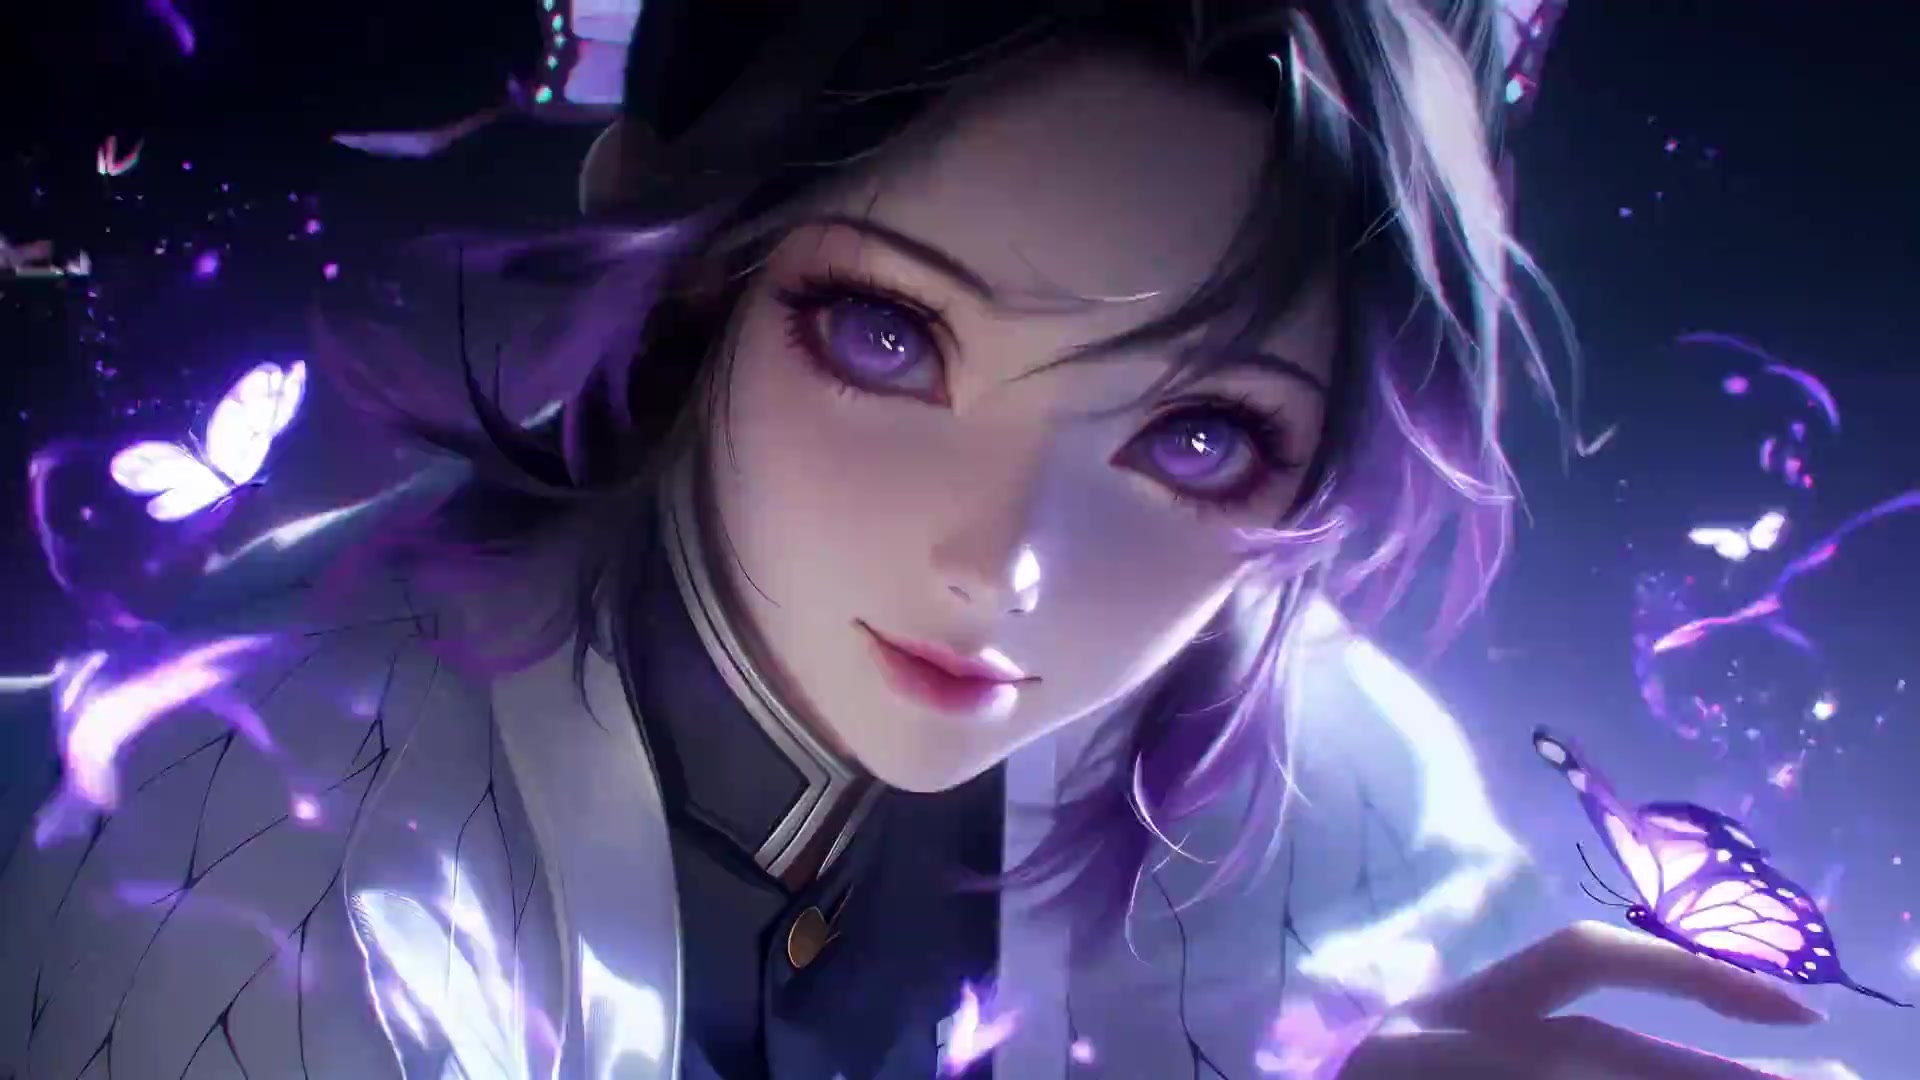
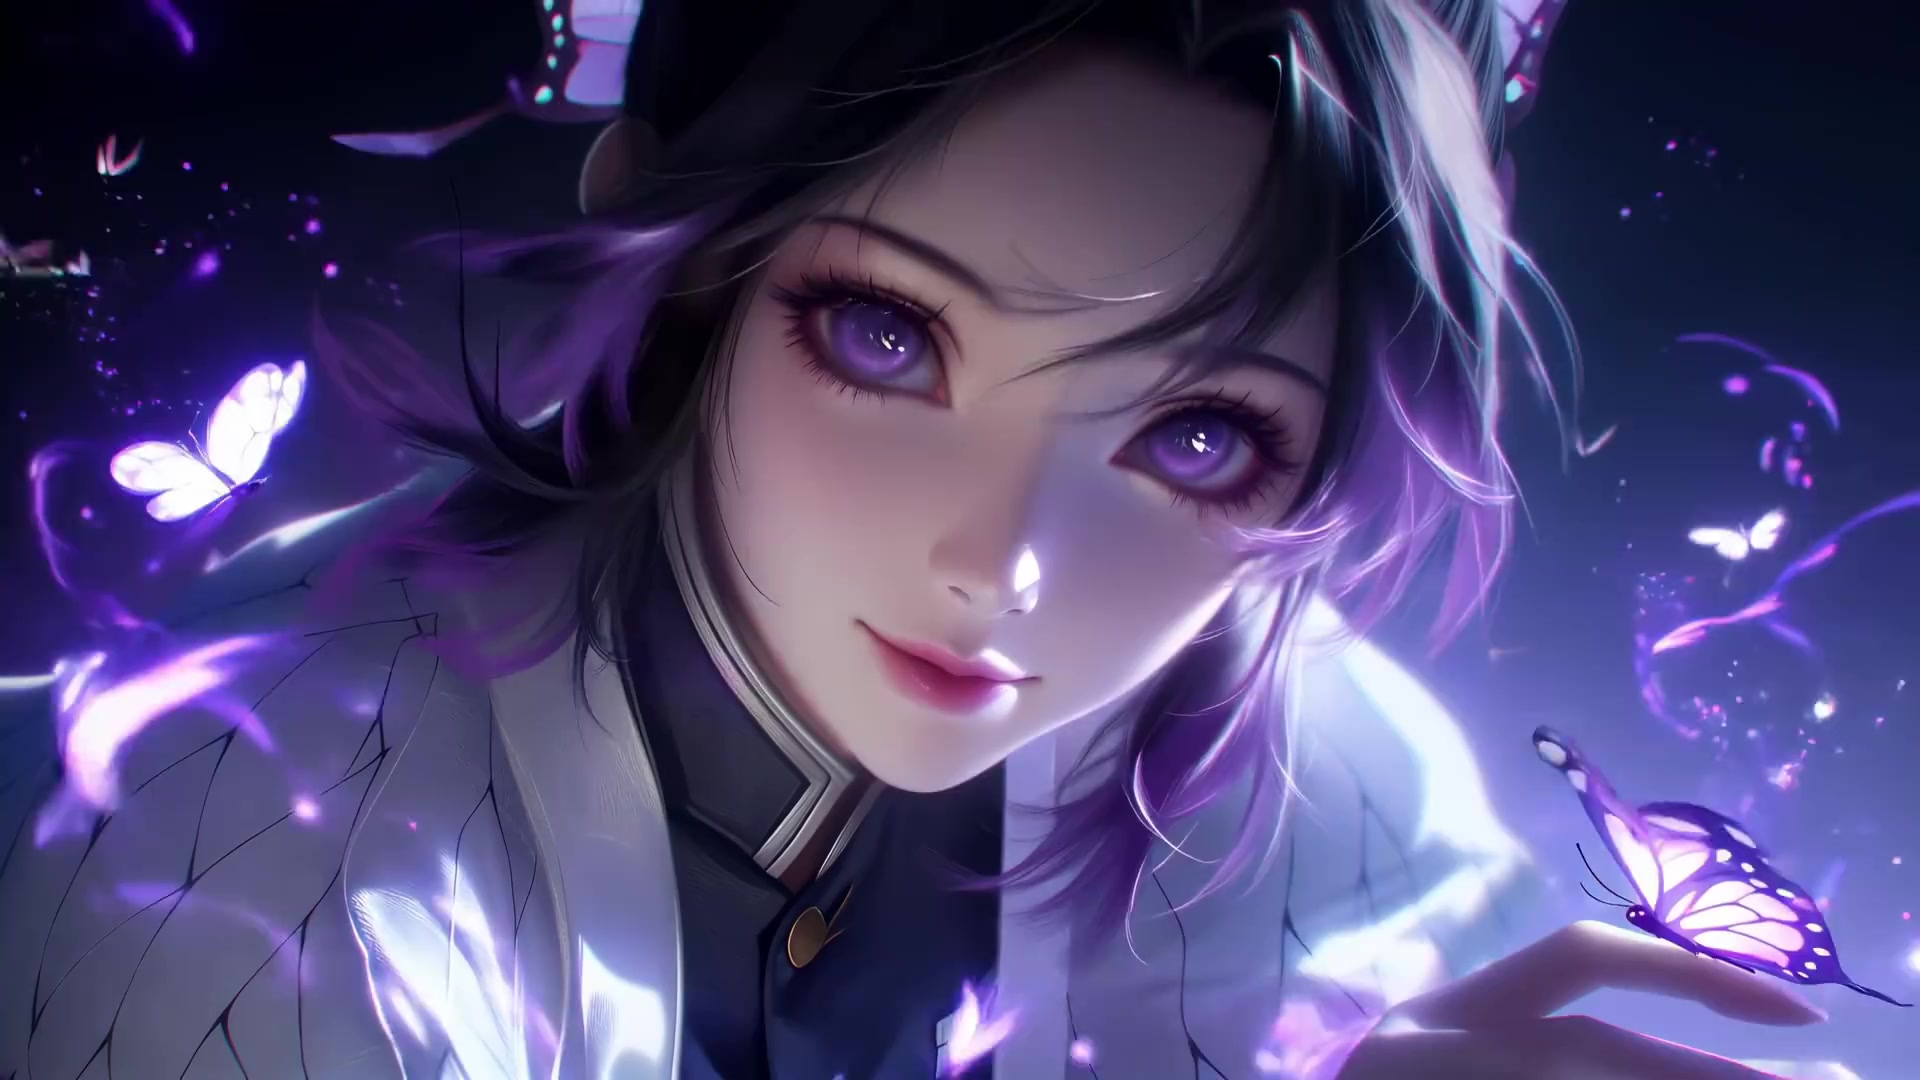
Stop re-encoding wallpapers whose source is already web ready: copy the stream untouched so the picture matches the file, instead of shrinking it to a third and blurring it

diff --git a/js/video-bg.js b/js/video-bg.js
@@ -37,11 +37,11 @@
         {src:"../../vid/endless-pain.mp4?v=d8b0de07", poster:"../../vid/endless-pain.jpg?v=d114e862", cover:"../../vid/endless-pain-disc.jpg?v=763d294a"},
         {src:"../../vid/beyoud.mp4?v=5a5bd938", poster:"../../vid/beyoud.jpg?v=27ac263e", cover:"../../vid/beyoud-disc.jpg?v=17cec89d"},
         {src:"../../vid/a-curse-paper-lily.mp4?v=bad01e69", poster:"../../vid/a-curse-paper-lily.jpg?v=d76519ce", cover:"../../vid/a-curse-paper-lily-disc.jpg?v=03f02208"},
-        {src:"../../vid/such-beautiful-eyes.mp4?v=d04fc05b", poster:"../../vid/such-beautiful-eyes.jpg?v=d547c456", cover:"../../vid/such-beautiful-eyes-disc.jpg?v=f7936c99"},
-        {src:"../../vid/jianghu-years.mp4?v=e03b2df0", poster:"../../vid/jianghu-years.jpg?v=fc484fdd", cover:"../../vid/jianghu-years-disc.jpg?v=dfc8ea69"},
-        {src:"../../vid/eye-strike.mp4?v=bc76b087", poster:"../../vid/eye-strike.jpg?v=c693e358", cover:"../../vid/eye-strike-disc.jpg?v=d1600c75"},
-        {src:"../../vid/fairy-beauty.mp4?v=e2212bae", poster:"../../vid/fairy-beauty.jpg?v=1bdfd69d", cover:"../../vid/fairy-beauty-disc.jpg?v=690f5a82"},
-        {src:"../../vid/sword-beauties.mp4?v=ea399469", poster:"../../vid/sword-beauties.jpg?v=f0ebef9d", cover:"../../vid/sword-beauties-disc.jpg?v=cdfa4920"}
+        {src:"../../vid/such-beautiful-eyes.mp4?v=0439952d", poster:"../../vid/such-beautiful-eyes.jpg?v=5a237cd2", cover:"../../vid/such-beautiful-eyes-disc.jpg?v=31e60f8e"},
+        {src:"../../vid/jianghu-years.mp4?v=5f2e535b", poster:"../../vid/jianghu-years.jpg?v=1adf77a8", cover:"../../vid/jianghu-years-disc.jpg?v=702d7e41"},
+        {src:"../../vid/eye-strike.mp4?v=0e244274", poster:"../../vid/eye-strike.jpg?v=fd9dab38", cover:"../../vid/eye-strike-disc.jpg?v=52b6f2b4"},
+        {src:"../../vid/fairy-beauty.mp4?v=8280aa74", poster:"../../vid/fairy-beauty.jpg?v=49f7169f", cover:"../../vid/fairy-beauty-disc.jpg?v=51464d02"},
+        {src:"../../vid/sword-beauties.mp4?v=3bc9171a", poster:"../../vid/sword-beauties.jpg?v=678c35eb", cover:"../../vid/sword-beauties-disc.jpg?v=6a377b77"}
     ];
 
     /* ---- 专属背景：按歌名锁定视频，进到这首歌必出，不参与上面的随机池 ----

diff --git a/Albums/TreasureHunting/index.html b/Albums/TreasureHunting/index.html
@@ -200,7 +200,7 @@
 		<audio  src="mp3/音阙诗听,昆玉 - 我已经到了幻想尽头.m4a"></audio>
 	</div>
 <script type="text/javascript" src="js/move.js?v=f6bb84a7"></script>
-<script type="text/javascript" src="../../js/video-bg.js?v=414a794d"></script>
+<script type="text/javascript" src="../../js/video-bg.js?v=c16f1772"></script>
 <script type="text/javascript" src="js/music.js?v=f2b28556"></script>
 </body>
 </html>

diff --git a/Albums/YouthEveningPaper/index.html b/Albums/YouthEveningPaper/index.html
@@ -201,7 +201,7 @@
 		<audio  src="mp3/音阙诗听,昆玉 - 我已经到了幻想尽头.m4a"></audio>
 	</div>
 <script type="text/javascript" src="js/move.js?v=f6bb84a7"></script>
-<script type="text/javascript" src="../../js/video-bg.js?v=414a794d"></script>
+<script type="text/javascript" src="../../js/video-bg.js?v=c16f1772"></script>
 <script type="text/javascript" src="js/music.js?v=d27c2196"></script>
 </body>
 </html>

diff --git a/Albums/不如吃茶去/index.html b/Albums/不如吃茶去/index.html
@@ -198,7 +198,7 @@
 		<audio  src="mp3/音阙诗听,昆玉 - 我已经到了幻想尽头.m4a"></audio>
 	</div>
 <script type="text/javascript" src="js/move.js?v=f6bb84a7"></script>
-<script type="text/javascript" src="../../js/video-bg.js?v=414a794d"></script>
+<script type="text/javascript" src="../../js/video-bg.js?v=c16f1772"></script>
 <script type="text/javascript" src="js/music.js?v=783b3f84"></script>
 </body>
 </html>

diff --git a/Albums/寻雾启示/index.html b/Albums/寻雾启示/index.html
@@ -198,7 +198,7 @@
 		<audio  src="mp3/音阙诗听,昆玉 - 我已经到了幻想尽头.m4a"></audio>
 	</div>
 <script type="text/javascript" src="js/move.js?v=f6bb84a7"></script>
-<script type="text/javascript" src="../../js/video-bg.js?v=414a794d"></script>
+<script type="text/javascript" src="../../js/video-bg.js?v=c16f1772"></script>
 <script type="text/javascript" src="js/music.js?v=e41d4fc9"></script>
 </body>
 </html>

diff --git a/Albums/梦游计/index.html b/Albums/梦游计/index.html
@@ -208,7 +208,7 @@
 		<audio  src="mp3/音阙诗听,昆玉 - 我已经到了幻想尽头.m4a"></audio>
 	</div>
 <script type="text/javascript" src="js/move.js?v=f6bb84a7"></script>
-<script type="text/javascript" src="../../js/video-bg.js?v=414a794d"></script>
+<script type="text/javascript" src="../../js/video-bg.js?v=c16f1772"></script>
 <script type="text/javascript" src="js/music.js?v=85ed4c1e"></script>
 </body>
 </html>

diff --git a/Albums/自定义/index.html b/Albums/自定义/index.html
@@ -200,7 +200,7 @@
 		<audio  src="mp3/音阙诗听,昆玉 - 我已经到了幻想尽头.m4a"></audio>
 	</div>
 <script type="text/javascript" src="js/move.js?v=f6bb84a7"></script>
-<script type="text/javascript" src="../../js/video-bg.js?v=414a794d"></script>
+<script type="text/javascript" src="../../js/video-bg.js?v=c16f1772"></script>
 <script type="text/javascript" src="js/music.js?v=c9cf66c3"></script>
 </body>
 </html>

diff --git a/Albums/苏格拉没有㡳/index.html b/Albums/苏格拉没有㡳/index.html
@@ -134,7 +134,7 @@
 		<audio  src="mp3/音阙诗听,昆玉 - 我已经到了幻想尽头.m4a"></audio>
 	</div>
 <script type="text/javascript" src="js/move.js?v=f6bb84a7"></script>
-<script type="text/javascript" src="../../js/video-bg.js?v=414a794d"></script>
+<script type="text/javascript" src="../../js/video-bg.js?v=c16f1772"></script>
 <script type="text/javascript" src="js/music.js?v=2a92b85a"></script>
 </body>
 </html>

diff --git a/index.html b/index.html
@@ -187,7 +187,7 @@
       </a>
 
       <!-- 站点版本号：每次推送 +1，刷新后看这里就能确定是不是最新版本 -->
-      <span class="site-version" id="siteVersion">V1.10.35</span>
+      <span class="site-version" id="siteVersion">V1.10.36</span>
 
       <ul>
         <li><a class="buttom first" href="https://i-found.github.io/">首页</a></li>

diff --git a/_transcode_videos.py b/_transcode_videos.py
@@ -11,6 +11,10 @@
 5. 统一 H.264 High / yuv420p / faststart，保证浏览器边下边播。
 6. 封面（vid/*.jpg）一律截视频第一帧，严格 -ss 0，不允许带任何偏移。
    全屏落下来先显示这张图、视频再从 0 秒开播，差一帧就会看到跳变。
+7. 例外：源本身已经是 H.264 / yuv420p / ≤1080p 时不做二次编码，
+   只去音轨 + faststart，画质等于原片、体积≈原片。
+   （这类片源码率常只有 2~3 Mbps，压到 1/3 就是肉眼可见的糊，二次编码只会更差。）
+   只有 4K / 非 H.264 的源才走上面第 2 条的 1/3 两遍 ABR。
 ====================================================================
 
 用法：
@@ -74,19 +78,68 @@ if ffmpeg_has_force_divisible_by():
     SCALE += ':force_divisible_by=2'
 
 
+def probe_video(path):
+    """取视频流的编码信息，用来判断能不能直接流复制。
+    注意用 default=nw=1 拿「键=值」，别用 csv —— csv 的字段顺序由 ffprobe 决定，不是请求顺序。"""
+    r = subprocess.run(['ffprobe', '-v', 'error', '-select_streams', 'v:0',
+                        '-show_entries', 'stream=codec_name,pix_fmt,width,height',
+                        '-of', 'default=nw=1', path], capture_output=True, text=True,
+                       encoding='utf-8', errors='ignore')
+    d = {}
+    for line in r.stdout.strip().splitlines():
+        if '=' in line:
+            k, v = line.split('=', 1)
+            d[k.strip()] = v.strip()
+    if 'codec_name' not in d or 'width' not in d:
+        return None
+    try:
+        return {'codec': d['codec_name'], 'pix': d.get('pix_fmt', ''),
+                'w': int(d['width']), 'h': int(d['height'])}
+    except (ValueError, KeyError):
+        return None
+
+
 def transcode(src, out, label):
     if not os.path.exists(src):
         print('  源文件不存在: %s' % src)
         return False
     dur = probe(src)
     src_size = os.path.getsize(src)
-    # 已经转过的（体积明显小于原片）直接跳过，支持断点续跑
-    if os.path.exists(out) and os.path.getsize(out) < src_size * 0.55:
-        return False
+    info = probe_video(src)
+    # 源本身已经是网页能直接播的规格（H.264 / yuv420p / ≤1080p）→ 不重编码，只去音轨 + faststart。
+    # 这类片子源码率通常只有 2~3 Mbps，再按 1/3 压到 1 Mbps 就是肉眼可见的糊；
+    # 二次编码只会更差（SSIM 掉到 0.93），直接流复制才是画质零损失的做法，成片体积≈原片。
+    copy_ok = bool(info and info['codec'] == 'h264' and info['pix'] == 'yuv420p'
+                   and info['w'] <= MAX_W and info['h'] <= MAX_H)
+
+    # 已经处理过的直接跳过，支持断点续跑（两种模式的「完成」含义不同）
+    if os.path.exists(out):
+        done = os.path.getsize(out)
+        if copy_ok and done <= src_size:
+            return False
+        if (not copy_ok) and done < src_size * 0.55:
+            return False
+
+    tmp = out + '.part.mp4'
+
+    if copy_ok:
+        cmd = ['ffmpeg', '-y', '-v', 'error', '-i', src, '-c:v', 'copy', '-movflags', '+faststart']
+        if DROP_AUDIO:
+            cmd += ['-an']
+        cmd += [tmp]
+        r = subprocess.run(cmd, capture_output=True)
+        if r.returncode != 0:
+            print('  流复制失败: %s' % r.stderr.decode('utf-8', 'ignore')[-200:])
+            return False
+        os.replace(tmp, out)
+        new_size = os.path.getsize(out)
+        print('  %-22s %6.1fs  %7.2f MB -> %6.2f MB  直接流复制，零重编码，画质等于源'
+              % (label, dur, src_size / 1048576, new_size / 1048576))
+        return True
+
     target_bytes = src_size * TARGET_SIZE_RATIO
     vkbps = max(MIN_BITRATE_KBPS, int(target_bytes * 8 / dur / 1000 * 0.985))
 
-    tmp = out + '.part.mp4'
     logdir = tempfile.mkdtemp(prefix='x264pass_')
     log = os.path.join(logdir, 'pass')
     base = ['ffmpeg', '-y', '-v', 'error', '-i', src, '-vf', SCALE,
